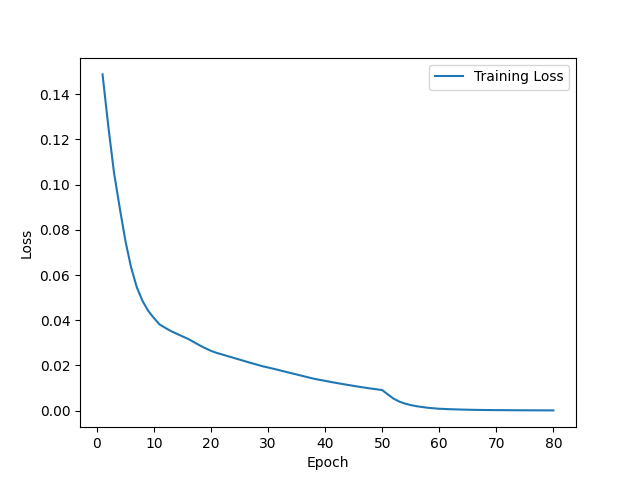
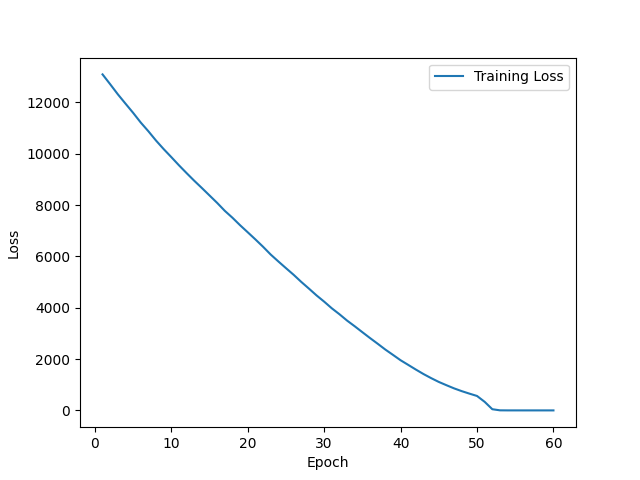
fixed it

diff --git a/main.py b/main.py
@@ -18,19 +18,14 @@ def is_valid_model_file(filepath):
 # Initialize lists to store loss values
 loss_values = []
 
-# Check if a trained model exists and is valid
 if os.path.exists(MODEL_FILE) and is_valid_model_file(MODEL_FILE):
     print("Loading existing model...")
     model = load_model(MODEL_FILE)
 else:
     print("Training a new model...")
     # Generate dataset
-    x = np.random.randint(0, 100, size=(100, 1))  # Random numbers between 0 and 100
-    y = x ** 2  # Labels are the square of the numbers
-
-    # Normalize data
-    x = x / 100.0
-    y = y / 10000.0
+    x = np.random.randint(0, 100, size=(100, 1))
+    y = x * 2
 
     # Build the model
     model = Sequential([
@@ -44,8 +39,6 @@ else:
 
     # Train the model
     history = model.fit(x, y, epochs=50, batch_size=32, verbose=1)
-
-    # Store initial training loss
     loss_values.extend(history.history['loss'])
 
     # Save the trained model
@@ -53,26 +46,20 @@ else:
     print(f"Model saved to {MODEL_FILE}")
 
 # Set up live graph
-plt.ion()  # Turn on interactive mode
+plt.ion()
 fig, ax = plt.subplots()
 ax.set_xlabel("Epoch")
 ax.set_ylabel("Loss")
 line, = ax.plot([], [], label="Training Loss")
 ax.legend()
 
-# Continuous training and prediction loop
 print("Starting automatic training and predictions...")
 while True:
     # Generate new training data
-    x = np.random.randint(0, 100, size=(1000, 1))  # Random numbers between 0 and 100
-    y = x ** 2  # Labels are the square of the numbers
-
-    # Normalize data
-    x = x / 100.0
-    y = y / 10000.0
-
+    x = np.random.randint(0, 100, size=(1000, 1))
+    y = x * 2
     # Train the model on new data
-    history = model.fit(x, y, epochs=10, batch_size=32, verbose=1)  # Train for 10 epochs at a time
+    history = model.fit(x, y, epochs=10, batch_size=32, verbose=1)
 
     # Update loss values
     loss_values.extend(history.history['loss'])
@@ -80,8 +67,8 @@ while True:
     # Update the live plot
     line.set_xdata(range(1, len(loss_values) + 1))
     line.set_ydata(loss_values)
-    ax.relim()  # Recalculate limits
-    ax.autoscale_view()  # Autoscale the view
+    ax.relim()
+    ax.autoscale_view()
     plt.draw()
 
     # Save the graph to a PNG file
@@ -89,12 +76,11 @@ while True:
     print("Graph saved as 'training_progress.png'")
 
     # Perform predictions
-    for _ in range(200):  # Adjust the range for the number of predictions you want
-        num = np.random.randint(0, 100)  # Generate a random number between 0 and 100
-        normalized_num = num / 100.0  # Normalize the input
-        prediction = model.predict(np.array([[normalized_num]]))  # Predict
-        denormalized_prediction = prediction[0][0] * 10000  # Denormalize the output
-        print(f"Input: {num}, Predicted Output: {denormalized_prediction:.2f}")
+    for _ in range(200):
+        num = np.random.randint(0, 100)
+        prediction = model.predict(np.array([[num]]))
+        rounded_prediction = int(round(prediction[0][0]))
+        print(f"Input: {num}, Predicted Output: {rounded_prediction}")
 
     # Check if the user wants to exit
     user_input = input("Type 'exit' to stop or press Enter to continue: ")
